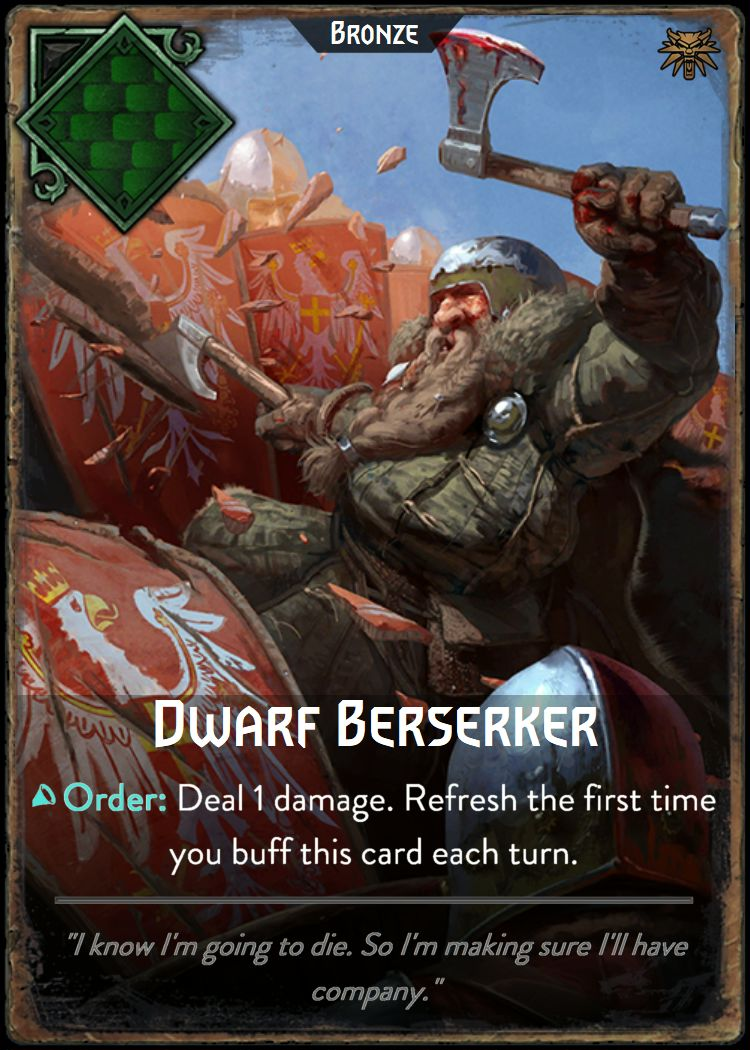
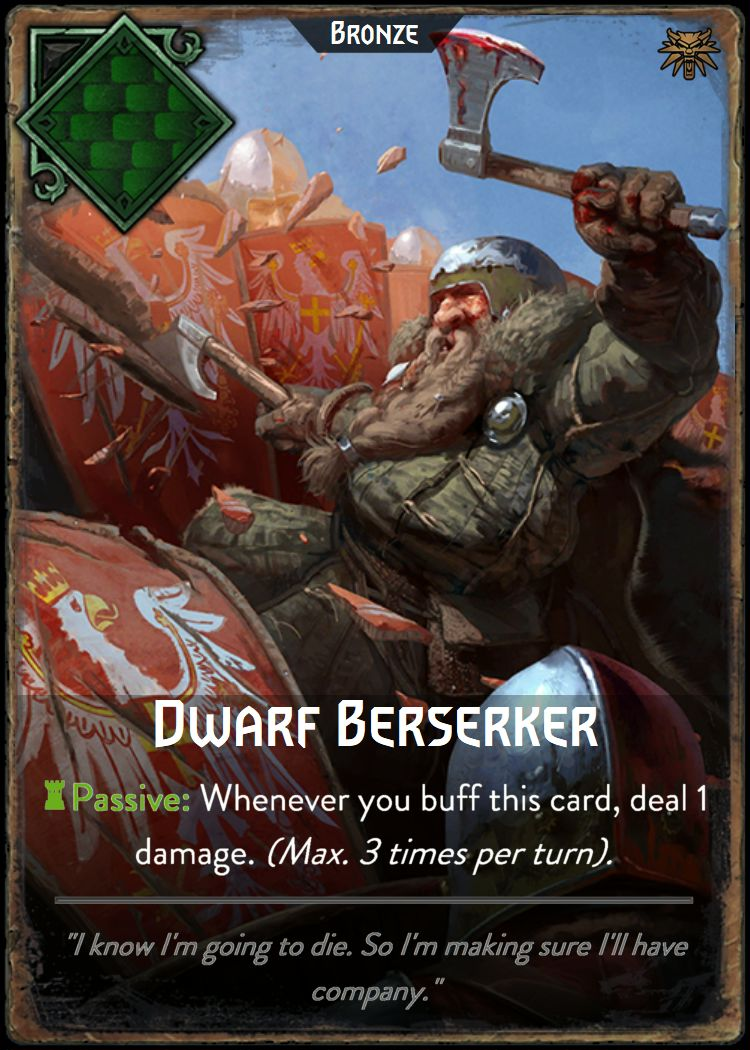
Rework Dwarf Berserker and Mahakam Smith; Bloodthirst only on surviving targets
Dwarf Berserker (4): whenever its owner buffs it, deal 1 damage (max 3 times
per turn). Procs are queued buff reactions, so several buffs from one ability
resolve one after another once it has finished.
Mahakam Smith (2): the first time each turn its owner buffs another card,
that card gets an additional +1 (a separate buff that never re-triggers a
Smith). Order: +1 to another card.
Bloodthirst now triggers only if the damaged card survives the hit; other
damage reactions are unchanged. AI valuations updated; new card art.

Claude-Session: https://claude.ai/code/session_01M1nxMRp1fono3WWM5XJ16Q

Changed region(s): [[0.0307, 0.7314, 0.9507, 0.8533]]

diff --git a/game.html b/game.html
@@ -2447,8 +2447,9 @@ const CARD_DB = {
   // Play (may) AND Order: +1 to another card in play.
   mahakam_guard:     { id: 'mahakam_guard', name: 'Mahakam Guard', power: 3, tier: 'bronze', faction: 'mahakam', img: 'cards/mahakam_guard.jpg', playBuffRepeat: 1,
                        abilities: [ { trigger: 'order', needsTarget: true, excludeSelf: true, isBuff: true, effect: (ctx, target) => applyPowerDelta(target, 1, ctx) } ] },
-  // Order: +1 to another card. Its Order refreshes whenever it gets buffed.
-  mahakam_smith:     { id: 'mahakam_smith', name: 'Mahakam Smith', power: 3, tier: 'bronze', faction: 'mahakam', img: 'cards/mahakam_smith.jpg', refreshOnBuffed: true,
+  // Passive: the first time each turn its owner buffs another card, that card
+  // gets an additional +1 (a separate buff). Order: +1 to another card.
+  mahakam_smith:     { id: 'mahakam_smith', name: 'Mahakam Smith', power: 2, tier: 'bronze', faction: 'mahakam', img: 'cards/mahakam_smith.jpg', smithFirstBuffExtra: 1,
                        abilities: [ { trigger: 'order', needsTarget: true, excludeSelf: true, isBuff: true, effect: (ctx, target) => applyPowerDelta(target, 1, ctx) } ] },
   // Order: discard the highest card(s) in play (both boards, itself if tied).
   pyrotechnician:    { id: 'pyrotechnician', name: 'Pyrotechnician', power: 1, tier: 'bronze', faction: 'mahakam', img: 'cards/pyrotechnician.jpg',
@@ -2459,9 +2460,8 @@ const CARD_DB = {
                        abilities: [ { trigger: 'order', needsTarget: true, multiBuff: 3,
                                       validTargets: (side, card) => allBoardCards().filter(c => c.uid !== card.uid && !c.floatingSpecial),
                                       effect: (ctx, target) => applyPowerDelta(target, 1, { side: ctx.side, card: ctx.card }) } ] },
-  // Order: deal 1. Its Order refreshes whenever it gets buffed.
-  dwarf_berserker:   { id: 'dwarf_berserker', name: 'Dwarf Berserker', power: 3, tier: 'bronze', faction: 'mahakam', img: 'cards/dwarf_berserker.jpg', refreshOnBuffed: true,
-                       abilities: [ { trigger: 'order', needsTarget: true, isDamage: true, amount: 1, effect: (ctx, target) => applyDamage(target, 1) } ] },
+  // Passive: whenever its owner buffs it, deal 1 damage (max 3 times per turn).
+  dwarf_berserker:   { id: 'dwarf_berserker', name: 'Dwarf Berserker', power: 4, tier: 'bronze', faction: 'mahakam', img: 'cards/dwarf_berserker.jpg', berserkerOnBuff: 3, abilities: [] },
   // Passive: the first time each turn its owner's effects buff it, its owner
   // gives another card +1.
   dwarven_chariot:   { id: 'dwarven_chariot', name: 'Dwarven Chariot', power: 4, tier: 'bronze', faction: 'mahakam', img: 'cards/dwarven_chariot.jpg', chariotOnOwnerBuff: 1, abilities: [] },
@@ -4934,7 +4934,7 @@ function resolveDethmoldDiscard(side, card, onDone) {
    with a positive amount. Used by Percival Schuttenbach's refresh. */
 function cardHasBuffAbility(card) {
   if (!card) return false;
-  if (card.playBuffRepeat || card.playBuffMulti || card.buffOnSecondOrder || card.buffOnOwnerBuffOther || card.chariotOnOwnerBuff) return true;
+  if (card.playBuffRepeat || card.playBuffMulti || card.buffOnSecondOrder || card.buffOnOwnerBuffOther || card.chariotOnOwnerBuff || card.smithFirstBuffExtra) return true;
   return (card.abilities || []).some(a => {
     if (a.isBuff || a.multiBuff || a.seqBuff || a.doublesSelf) return true;
     if (a.isDamage || a.isRefresh || a.isScorch || a.isDiscardPlay || typeof a.effect !== 'function') return false;
@@ -5265,6 +5265,7 @@ function enqueueBuffReaction(r) {
   buffReactionTally.n++;
   buffReactionQueue.push(r);
 }
+let smithExtraDepth = 0;
 function onCardBuffed(card, amount, sourceSide, sourceCard) {
   if (!state || state.phase !== 'playing' || !(amount > 0)) return;
   const side = findCardOwnerSide(card.uid);
@@ -5288,6 +5289,15 @@ function onCardBuffed(card, amount, sourceSide, sourceCard) {
   if (card.chariotOnOwnerBuff && firstOwnerBuff) {
     enqueueBuffReaction({ type: 'chariot', uid: card.uid });
   }
+  // Dwarf Berserker: every owner-buff earns a 1-damage proc (max 3 per turn).
+  // Procs are queued reactions, so they wait for the buffing ability to end.
+  if (card.berserkerOnBuff && byOwner) {
+    if (card._berserkerTurn !== t) { card._berserkerTurn = t; card._berserkerProcs = 0; }
+    if (card._berserkerProcs < card.berserkerOnBuff) {
+      card._berserkerProcs++;
+      enqueueBuffReaction({ type: 'berserker', uid: card.uid });
+    }
+  }
   if (sp) {
     sp.board.forEach(d => {
       if (d.buffOnOwnerBuffOther && d.uid !== card.uid && d._defenderTurn !== t) {
@@ -5295,6 +5305,21 @@ function onCardBuffed(card, amount, sourceSide, sourceCard) {
         enqueueBuffReaction({ type: 'defender', uid: d.uid });
       }
     });
+    // Mahakam Smith: the first time each turn its owner buffs another card,
+    // that card gets an extra +1 right away -- its own buff instance (it can
+    // set off other buff reactions), but it never re-triggers a Smith.
+    if (!smithExtraDepth && !card.floatingSpecial) {
+      const smiths = sp.board.filter(d => d.smithFirstBuffExtra && d.uid !== card.uid && d._smithTurn !== t);
+      smiths.forEach(d => { d._smithTurn = t; });
+      smiths.forEach(d => {
+        if (!findCardOwnerSide(card.uid)) return;
+        smithExtraDepth++;
+        try {
+          applyPowerDelta(card, d.smithFirstBuffExtra, { side: sourceSide, card: d });
+          logMsg(`${sourceSide === 'player' ? 'Your' : "Opponent's"} ${d.name} gives ${card.name} an additional +${d.smithFirstBuffExtra}.`);
+        } finally { smithExtraDepth--; }
+      });
+    }
   }
   scheduleBuffReactions();
 }
@@ -5400,6 +5425,27 @@ function runBuffReaction(r) {
       resolve();
       return;
     }
+    if (r.type === 'berserker') {
+      const targets = allBoardCards().filter(c => c.uid !== card.uid && !c.floatingSpecial && c.power > 0);
+      if (targets.length === 0) { resolve(); return; }
+      if (isInteractive(side)) {
+        logMsg(`${who} ${card.name} is buffed -- deal 1 damage.`);
+        startTargeting({ side, card, kind: 'reactionDamage', excludeSelf: true, amount: 1, filter: c => c.power > 0,
+                         banner: 'Dwarf Berserker: deal 1 damage', onDone: () => { render(); resolve(); } });
+      } else {
+        const enemy = state.players[otherSide(side)].board.filter(c => c.power > 0 && !c.floatingSpecial);
+        if (enemy.length === 0) { resolve(); return; }
+        const target = pickKillableOrBestDamageTarget(enemy, 1);
+        if (!target) { resolve(); return; }
+        shootProjectile(card.uid, target.uid, () => {
+          applyDamage(target, 1, { side, card });
+          logMsg(`${who} ${card.name} deals 1 damage to ${target.name}.`);
+          render();
+          afterKillsSettle(resolve, 0);
+        });
+      }
+      return;
+    }
     if (r.type === 'chariot') {
       const others = allBoardCards().filter(c => c.uid !== card.uid && !c.floatingSpecial);
       if (others.length === 0) { resolve(); return; }
@@ -5430,6 +5476,12 @@ function aiBuffTargetScore(c, source) {
   const t = state.turnCounter;
   if (c.refreshOnBuffed && c.orderUsed && c._ownerBuffedTurn !== t) s += 6;
   if (c.chariotOnOwnerBuff && c._ownerBuffedTurn !== t) s += 4;
+  // Dwarf Berserker: each owner-buff deals 1 damage (3 per turn) -- worth most when it kills
+  if (c.berserkerOnBuff && findCardOwnerSide(c.uid) === 'ai') {
+    const used = c._berserkerTurn === t ? (c._berserkerProcs || 0) : 0;
+    const enemy = state.players.player.board.filter(e => e.power > 0 && !e.floatingSpecial);
+    if (used < c.berserkerOnBuff && enemy.length) s += enemy.some(e => e.power <= 1 + aiBirnaBonus()) ? 5 : 2.5;
+  }
   // buffing a refresh-on-buff card whose Order is still unused would spend
   // its once-per-turn refresh for nothing
   if (c.refreshOnBuffed && !c.orderUsed && findOrderAbility(c) && c._ownerBuffedTurn !== t) s -= 3;
@@ -5945,7 +5997,11 @@ function onDamageDealt(card, amount, sourceSide, sourceCard) {
     if (card.power === 1 && p.board.some(c => c.birnaFollowup)) queueFollowup({ type: 'birna', side: sourceSide, uid: card.uid });
     if (card.power > 0 && p.graveyard.some(c => c.morkvargReturn)) queueFollowup({ type: 'morkvarg', side: sourceSide });
     let gained = false;
-    p.board.slice().forEach(c => {
+    // Bloodthirst only when the damaged card SURVIVED the hit (still in play
+    // with power > 0); a lethal hit gives nothing. (Other damage reactions
+    // above count every hit, lethal ones included.)
+    const survived = card.power > 0 && !!findCardOwnerSide(card.uid);
+    if (survived) p.board.slice().forEach(c => {
       const n = bloodthirstOf(c);
       if (n > 0 && c.power > 0 && !c.floatingSpecial) {
         applyPowerDelta(c, n, { side: sourceSide, card: c });
@@ -6075,8 +6131,10 @@ function aiPlayDamageValue(c) {
   if (!hits) return 0;
   const amt = c.playDamageMultiAmount || c.playDamageSeqAmount || 1;
   const enemy = state.players.player.board.filter(e => e.power > 0);
-  let v = Math.min(hits, enemy.filter(e => e.power <= amt).length) * 1.5;
-  if (aiBloodthirstGain() > 0) v += Math.min(hits, c.playDamageSeq ? hits : enemy.length) * aiBloodthirstGain();
+  const kills = Math.min(hits, enemy.filter(e => e.power <= amt).length);
+  let v = kills * 1.5;
+  // Bloodthirst only triggers on hits the target survives (not on kills)
+  if (aiBloodthirstGain() > 0) v += Math.max(0, Math.min(hits, c.playDamageSeq ? hits : enemy.length) - kills) * aiBloodthirstGain();
   return v;
 }
 
@@ -10087,6 +10145,14 @@ function resolveTargeting(targetCard) {
     };
     if (targetCard.uid === card.uid) { SFX.buff(); apply(); }
     else shootProjectile(card.uid, targetCard.uid, apply, 'buff');
+  } else if (kind === 'reactionDamage') {
+    // Dwarf Berserker's proc
+    shootProjectile(card.uid, targetCard.uid, () => {
+      applyDamage(targetCard, amount || 1, { side, card });
+      logMsg(`${possessive(side)} ${card.name} deals ${amount || 1} damage to ${targetCard.name}.`);
+      render();
+      afterKillsSettle(() => { if (onDone) onDone(); }, 0);
+    });
   } else if (kind === 'reactionBuff') {
     // Dwarven Chariot's reaction
     shootProjectile(card.uid, targetCard.uid, () => {
